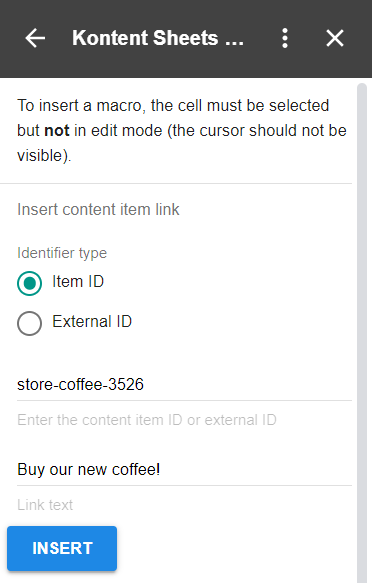
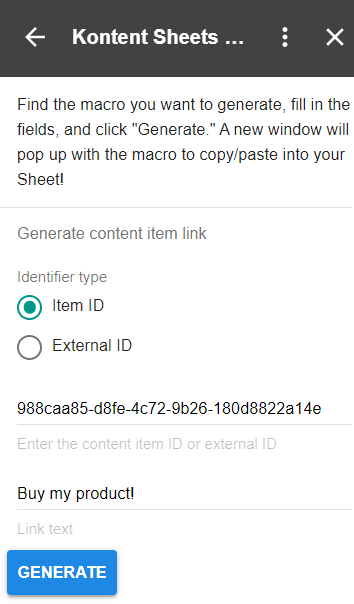
Change RTE macros from insert to generate

diff --git a/script/navigation.js b/script/navigation.js
@@ -115,7 +115,7 @@ const showHomeCard = () => {
         .addWidget(insertButton)
         .addWidget(
           CardService.newTextParagraph().setText(
-            "Insert links and items into rich text"
+            "Generate macros for rich text"
           )
         )
     )
@@ -232,9 +232,9 @@ const navigateTo = (e = undefined) => {
 };
 
 const makeInsertCard = () => {
-  // Insert item link
+  // Generate item link
   const itemLinkSection = CardService.newCardSection().setHeader(
-    "Insert content item link"
+    "Generate content item link"
   );
   const itemLinkType = CardService.newSelectionInput()
     .setType(CardService.SelectionInputType.RADIO_BUTTON)
@@ -249,11 +249,11 @@ const makeInsertCard = () => {
     .setFieldName(KEY_ITEMLINK_TEXT)
     .setHint("Link text");
   const itemLinkButton = CardService.newTextButton()
-    .setText("Insert")
+    .setText("Generate")
     .setTextButtonStyle(CardService.TextButtonStyle.FILLED)
     .setOnClickAction(
       CardService.newAction()
-        .setFunctionName("insertMacro")
+        .setFunctionName("generateMacro")
         .setParameters({ macro: KEY_ITEMLINK_IDENTIFIER })
     );
   itemLinkSection.addWidget(itemLinkType);
@@ -261,9 +261,9 @@ const makeInsertCard = () => {
   itemLinkSection.addWidget(itemLinkTextInput);
   itemLinkSection.addWidget(itemLinkButton);
 
-  // Insert inline item
+  // Generate inline item
   const inlineItemSection = CardService.newCardSection().setHeader(
-    "Insert inline content item"
+    "Generate inline content item"
   );
   const inlineItemType = CardService.newSelectionInput()
     .setType(CardService.SelectionInputType.RADIO_BUTTON)
@@ -275,20 +275,20 @@ const makeInsertCard = () => {
     .setFieldName(KEY_INLINEITEM_IDENTIFIER)
     .setHint("Enter the content item ID or external ID");
   const inlineItemButton = CardService.newTextButton()
-    .setText("Insert")
+    .setText("Generate")
     .setTextButtonStyle(CardService.TextButtonStyle.FILLED)
     .setOnClickAction(
       CardService.newAction()
-        .setFunctionName("insertMacro")
+        .setFunctionName("generateMacro")
         .setParameters({ macro: KEY_INLINEITEM_IDENTIFIER })
     );
   inlineItemSection.addWidget(inlineItemType);
   inlineItemSection.addWidget(inlineItemInput);
   inlineItemSection.addWidget(inlineItemButton);
 
-  // Insert asset link
+  // Generate asset link
   const assetLinkSection =
-    CardService.newCardSection().setHeader("Insert asset link");
+    CardService.newCardSection().setHeader("Generate asset link");
   const assetLinkType = CardService.newSelectionInput()
     .setType(CardService.SelectionInputType.RADIO_BUTTON)
     .setTitle("Identifier type")
@@ -302,11 +302,11 @@ const makeInsertCard = () => {
     .setFieldName(KEY_ASSETLINK_TEXT)
     .setHint("Link text");
   const assetLinkButton = CardService.newTextButton()
-    .setText("Insert")
+    .setText("Generate")
     .setTextButtonStyle(CardService.TextButtonStyle.FILLED)
     .setOnClickAction(
       CardService.newAction()
-        .setFunctionName("insertMacro")
+        .setFunctionName("generateMacro")
         .setParameters({ macro: KEY_ASSETLINK_IDENTIFIER })
     );
   assetLinkSection.addWidget(assetLinkType);
@@ -319,7 +319,7 @@ const makeInsertCard = () => {
     .addSection(
       CardService.newCardSection().addWidget(
         CardService.newTextParagraph().setText(
-          "To insert a macro, the cell must be selected but <b>not</b> in edit mode (the cursor should not be visible)."
+          'Find the macro you want to generate, fill in the fields, and click "Generate." A new window will pop up with the macro to copy/paste into your Sheet!'
         )
       )
     )

diff --git a/script/macros.js b/script/macros.js
@@ -46,7 +46,7 @@ const convertMacro = (fullMacro, innerText) => {
   }
 };
 
-const insertMacro = (e) => {
+const generateMacro = (e) => {
   const macro = e.parameters.macro;
   const formInput = e.commonEventObject.formInputs;
   let identifier, identifierType, output;
@@ -88,9 +88,27 @@ const insertMacro = (e) => {
   }
 
   if (output) {
-    // Insert macro in active cell
-    const cell = SpreadsheetApp.getActiveSheet().getActiveCell();
-    const cellValue = cell.getValue();
-    cell.setValue(cellValue + output);
+    return CardService.newActionResponseBuilder()
+      .setNavigation(
+        CardService.newNavigation().pushCard(
+          CardService.newCardBuilder()
+            .addSection(
+              CardService.newCardSection()
+                .addWidget(
+                  CardService.newTextParagraph().setText("We've generated a macro for you!")
+                )
+                .addWidget(
+                  CardService.newTextInput()
+                    .setFieldName("xxx")
+                    .setValue(output)
+                )
+                .addWidget(
+                  CardService.newTextParagraph().setText('Copy and paste it into your Sheet, then hit the "Back" arrow to generate more.')
+                )
+            )
+            .build()
+        )
+      )
+      .build();
   }
 };

diff --git a/README.md b/README.md
@@ -90,7 +90,7 @@ Or, you can use special macros designed for this add-on. In the list below, the 
   | link-asset | Inserts a link to an asset | `macro:identifier_type:identifier:text` | `##link-asset:id:0013263e-f2a9-40b1-9a3e-7ab6510bafe5:asset##` |
   | item | Inserts an inline content item | `macro:identifier_type:identifier` | `##item:external-id:article6##` |
 
-You can insert content item links, asset links, and inline content items by entering the HTML or macro manually. Or, you can use the **Rich text macros** menu found in the add-on to insert macros:
+You can insert content item links, asset links, and inline content items by entering the HTML or macro manually. Or, you can use the **Rich text macros** menu found in the add-on to generate macros:
 
 ![Macro menu](/img/macromenu.png)
 
